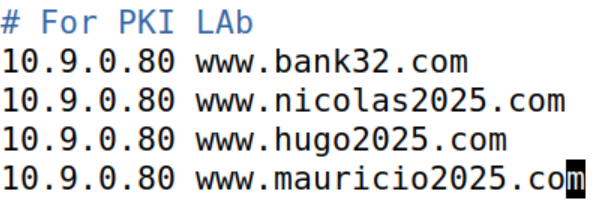
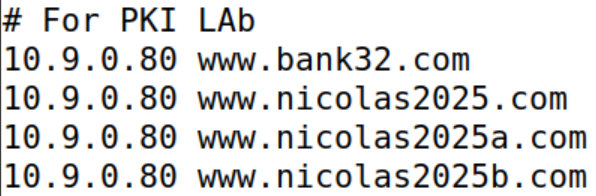
Logbook11: task 4 feita

diff --git a/logbooks/LOGBOOK11.md b/logbooks/LOGBOOK11.md
@@ -12,27 +12,25 @@ Adicionamos os sites requeridos ao arquivo "/etc/hosts", completando o setup do 
 
 ![](images/guiao11/dnssetup.png)
 
-Nota: foram adicionados 3 sites, cada um correspondendo a um dos elementos do grupo. Isso foi feito puramente por efeitos de conveniência, para a execução e registo das tarefas sem inconsistências.
-
 ## Tarefa 1
 
 Para a tarefa 1, temos de criar uma organização *root* CA, para podermos emitir certificados digitais para outros sites.
 
-1. Copiar o arquivo "openssl.cnf" para o diretório onde iremos trabalhar:
+1. Copiamos o arquivo "openssl.cnf" para o diretório onde iremos trabalhar:
 
 ![](images/guiao11/cpssl.png)
 
-2. Editar o arquivo, de modo a descomentar a linha "unique_subject":
+2. Editamos o arquivo, de modo a descomentar a linha "unique_subject":
 
 ![](images/guiao11/uncomment.png)
 
-3. Criar o diretório "demoCA" e os arquivos necessários dentro dele, além de editar o arquivo "serial" para incluir um número aleatório em formato de string:
+3. Criamos o diretório "demoCA" e os arquivos necessários dentro dele, além de editar o arquivo "serial" para incluir um número aleatório em formato de string:
 
 ![](images/guiao11/demoCAcmds.png)
 ![](images/guiao11/demoCAcmds2.png)
 ![](images/guiao11/demoCAcmds3.png)
 
-4. Executar o comando e preencher as informações relevantes: 
+4. Executamos o comando e preencher as informações relevantes: 
 
 ![](images/guiao11/sslcmd.png)
 
@@ -84,7 +82,84 @@ Para a task 3, vamos aceitar o pedido gerado pelo *web server* com a *root* CA.
 
 ## Tarefa 4
 
+Para a tarefa 4, faremos *setup* de um *website* HTTPS baseado em Apache.
+
+1. Criamos o arquivo de configuração para o Apache utilizar, utilizando as informações do *website* estabelecido:
+
+![](images/guiao11/websiteconfigs.png)
+![](images/guiao11/websiteconfigs2.png)
+
+2. Movemos o arquivo de configuração para o diretório "image_www" e os certificados da CA e do site e a *public key* do site para o diretório "image_www/certs":
+
+![](images/guiao11/moveconfcerts.png)
+
+3. Criamos uma página para o *website*, para testarmos ele:
+
+![](images/guiao11/indexsetup.png)
+
+4. Editamos o Dockerfile para incluir o nosso *website* no setup:
+
+![](images/guiao11/dockerfile1.png)
+![](images/guiao11/dockerfile2.png)
+
+5. Reiniciamos o container Docker para aplicar as mudanças, com "dcdown, "dcbuild --no-cache" ("--no-cache" para evitar que configurações antigas permaneçam) e "dcup -d"
+
+6. Iniciamos o serviço Apache dentro da shell do container:
+
+![](images/guiao11/apachestart.png)
+
+7. Verificamos que o *website* criado funciona, bem como "www.bank32.com":
+
+![](images/guiao11/workingsites.png)
+![](images/guiao11/workingsites2.png)
+
+### Setup dos Aliases
+
+Para fazer com que os *aliases* funcionem, é necessário adicioná-los ao arquivo de configuração do apache para a porta 80:
+
+![](images/guiao11/aliasaddingapache.png)
+
+Com isso feito, reiniciamos o container (*dcdown*, *dcbuild*, *dcup*) e iniciamos o Apache novamente:
+
+![](images/guiao11/apachestartalias.png)
+
+Temos, então, os *aliases* funcionais:
+
+![](images/guiao11/workingalias.png)
+
+### Browsing do Website
+
+Ao tentar acessar os sites com "https://" adicionado no início do URL, recebemos um aviso de segurança:
+
+![](images/guiao11/warning.png)
+
+Isso acontece pois o browser utilizado (nesse caso, o Firefox) não reconhece a CA que assinou os certificados do nosso site.
+
+Para consertar este problema, temos de carregar os certificados para o Firefox.
+
+1. Visitamos a página "about:preferences#privacy" e clicamos em "View Certificates":
+
+![](images/guiao11/viewcerts.png)
+
+2. Na aba "Authorities", clicamos em "Import...":
+
+![](images/guiao11/import.png)
+
+3. Selecionamos o certificado da *root* CA criada anteriormente, adicionando-a à lista de CAs certificadas:
+
+![](images/guiao11/selectca.png)
+
+![](images/guiao11/trustwebsite.png)
+
+![](images/guiao11/evilempirecert.png)
+
+Com isso, ao acessar o site normalmente, já não recebemos mais um aviso de segurança, e o símbolo do cadeado aparece bloqueado (o que significa que o site é considerado seguro pelo nosso browser):
+
+![](images/guiao11/nowarning.png)
+
 ## Tarefa 5
+
+
 
 ## Tarefa 6
 
